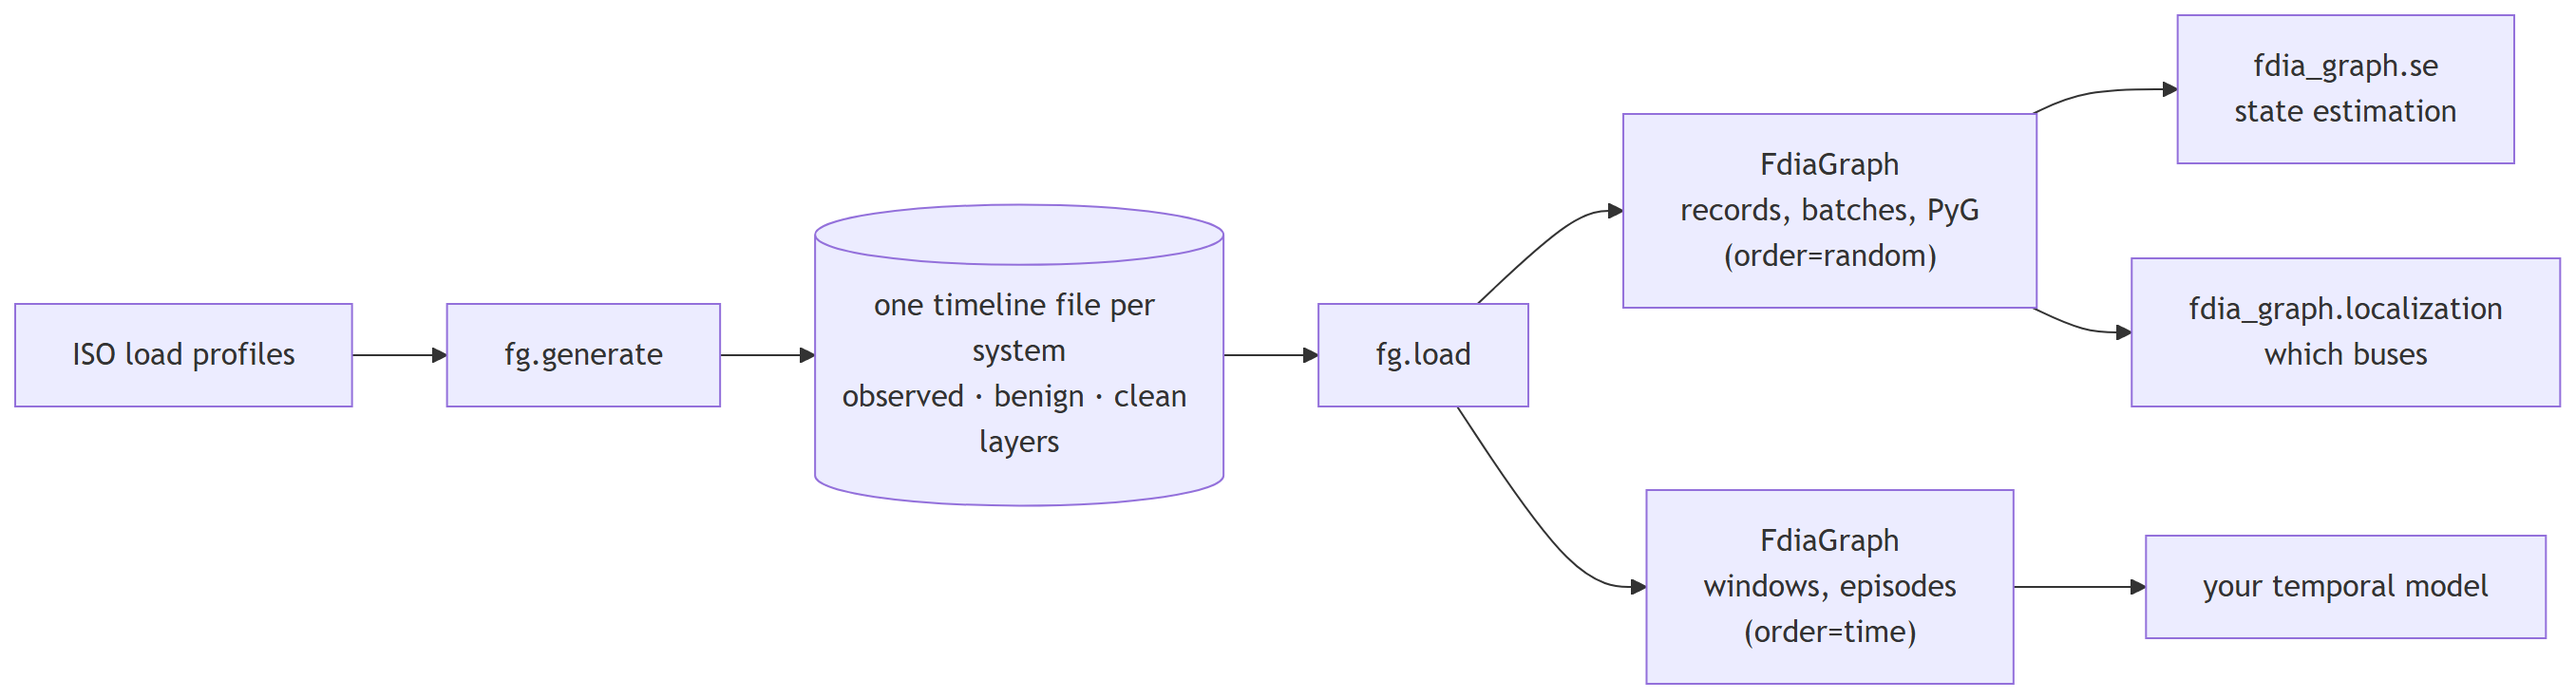
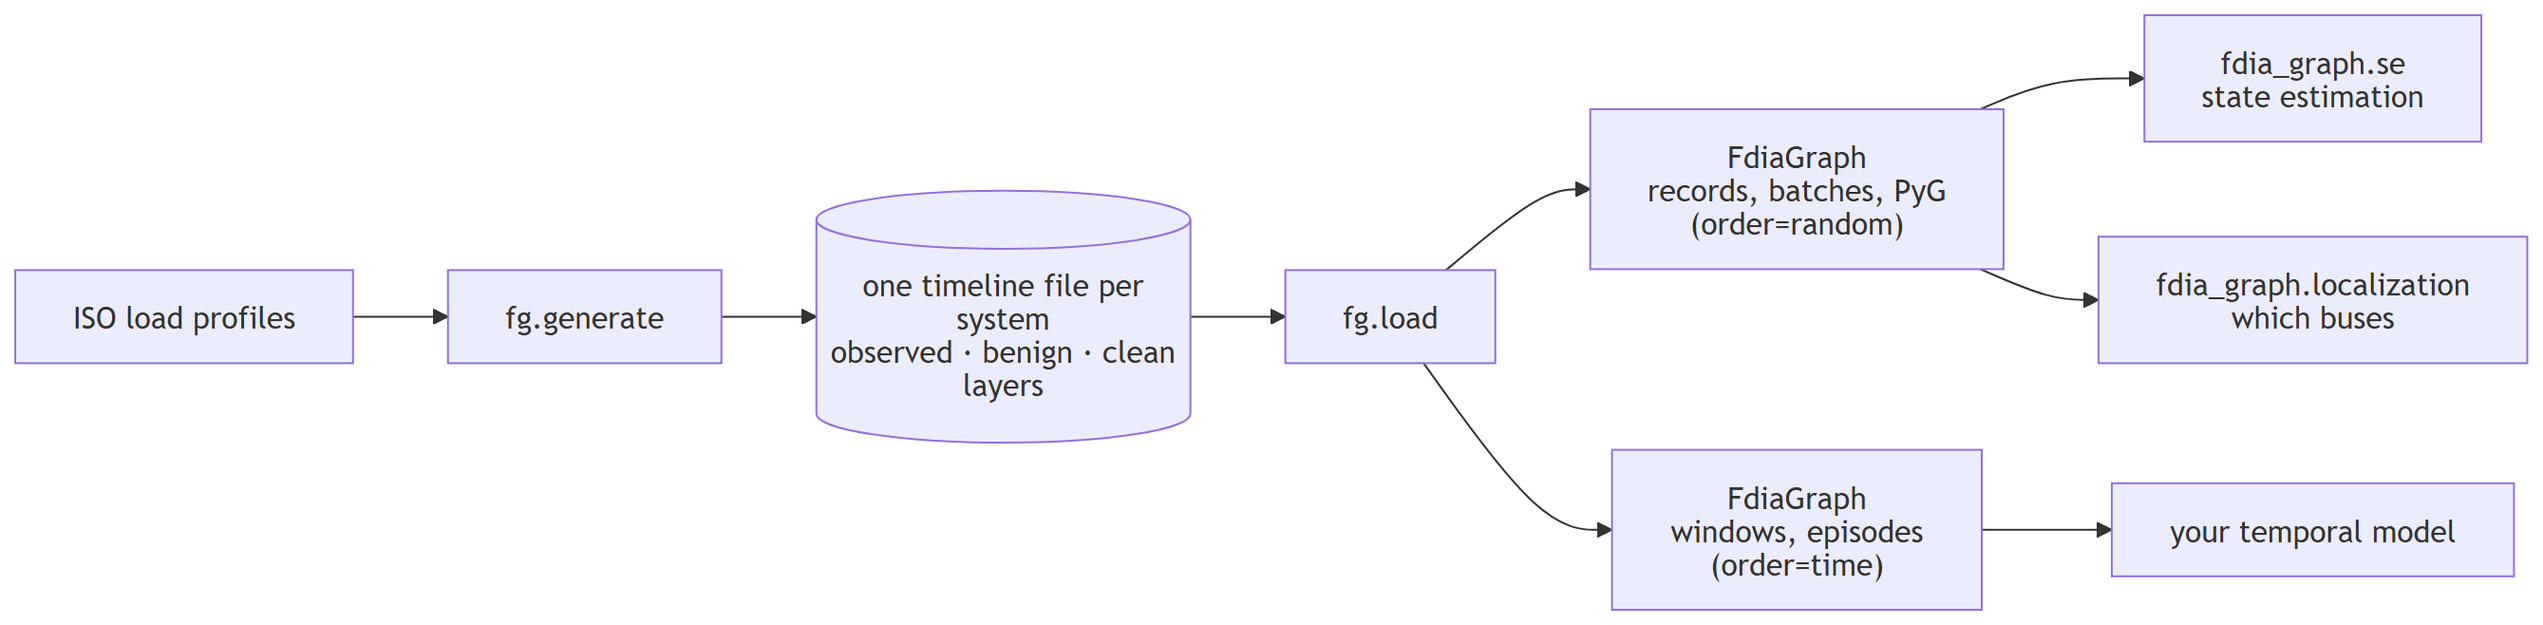
render_mermaid: plain SVG text labels (htmlLabels off at the top level), fail if a foreignObject remains; artifacts regenerated

diff --git a/tools/render_mermaid.py b/tools/render_mermaid.py
@@ -20,7 +20,7 @@ MERMAID = "https://cdn.jsdelivr.net/npm/mermaid@11/dist/mermaid.min.js"
 
 PAGE = """<!doctype html><meta charset="utf-8"><script src="{lib}"></script>
 <body style="margin:0;background:#fff"><pre class="mermaid">{code}</pre>
-<script>mermaid.initialize({{startOnLoad: true, securityLevel: "loose", flowchart: {{htmlLabels: false}}}});</script></body>"""
+<script>mermaid.initialize({{startOnLoad: true, securityLevel: "loose", htmlLabels: false, flowchart: {{htmlLabels: false}}}});</script></body>"""
 
 
 def render(src: str) -> tuple[str, str]:
@@ -41,6 +41,8 @@ def render(src: str) -> tuple[str, str]:
         svg = page.evaluate("new XMLSerializer().serializeToString(document.querySelector('.mermaid svg'))")
         page.locator(".mermaid svg").screenshot(path=png_path)
         browser.close()
+    if "<foreignObject" in svg:  # an HTML label slipped through: the file would show boxes without text
+        raise SystemExit(f"{src}: the SVG still carries HTML labels (foreignObject); check the Mermaid config")
     if 'xmlns="http://www.w3.org/2000/svg"' not in svg:
         svg = svg.replace("<svg ", '<svg xmlns="http://www.w3.org/2000/svg" ', 1)
     with open(svg_path, "w", encoding="utf8", newline="\n") as fh:
